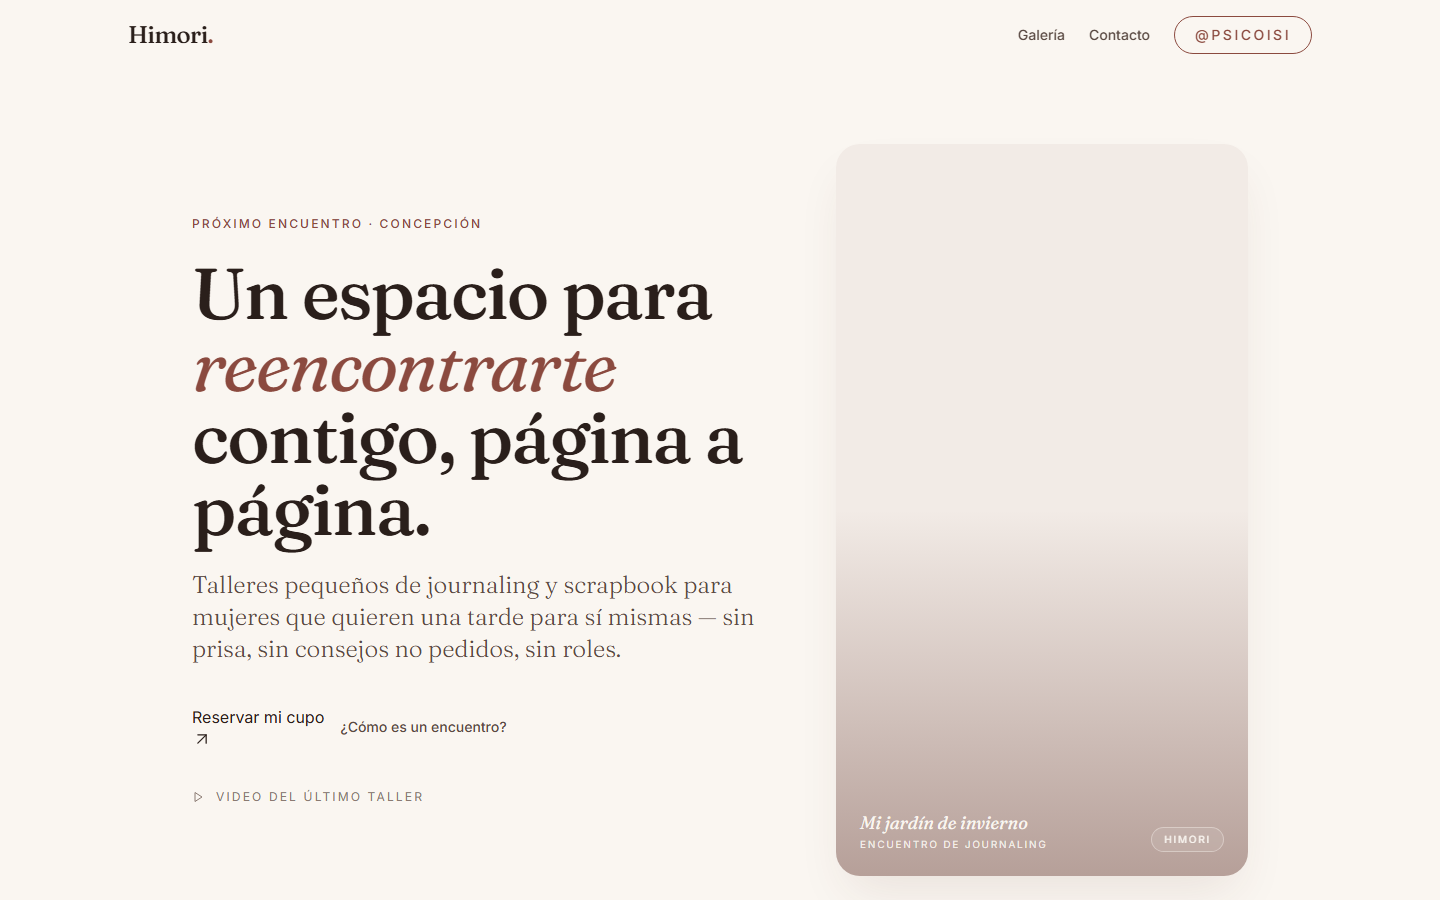
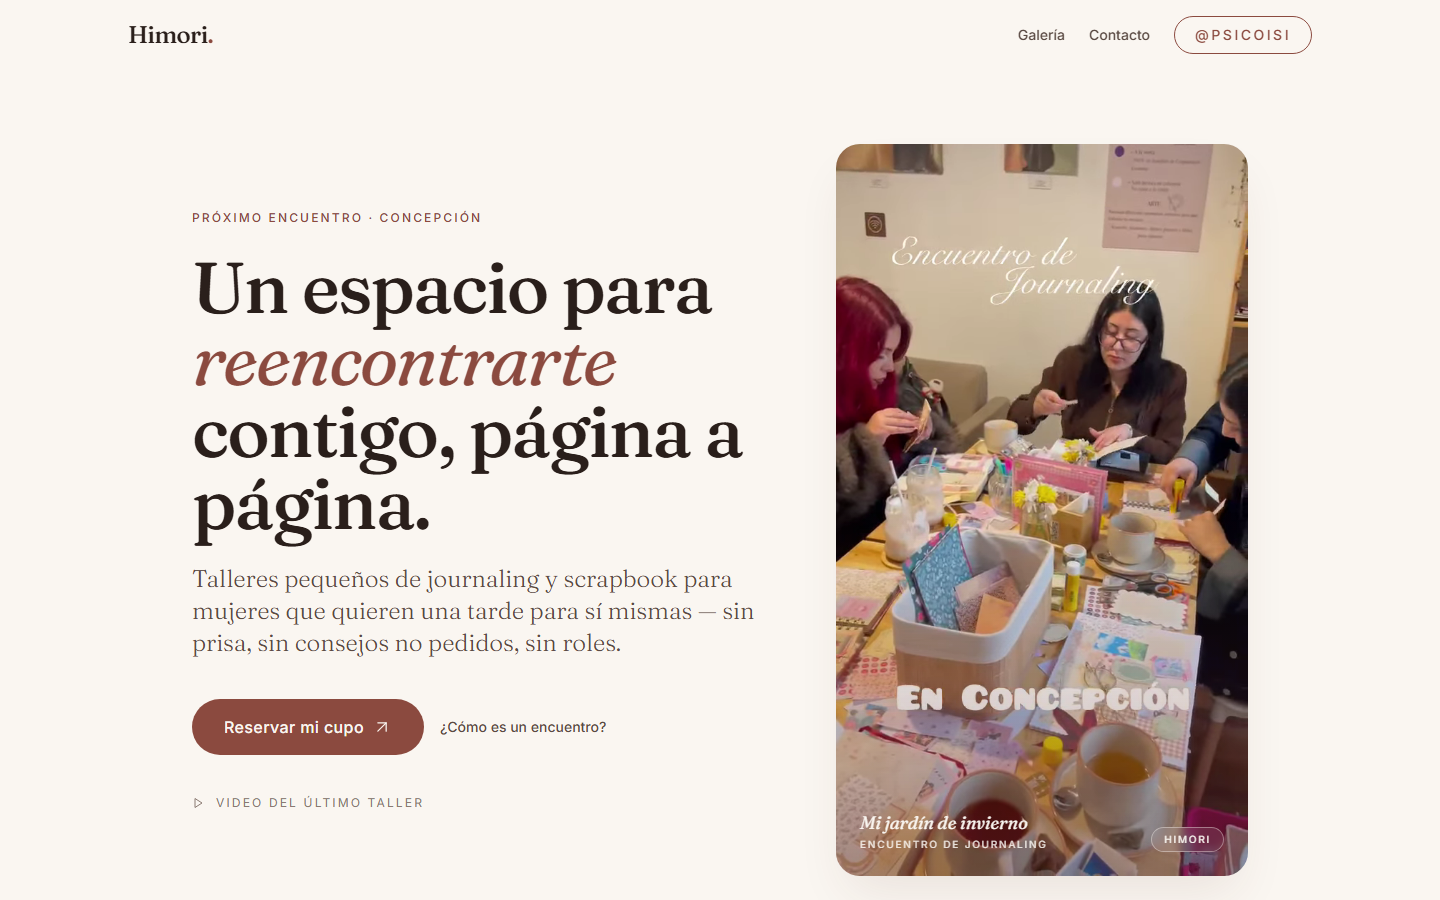
feat: barrita café con info del evento + JSON-LD Event
- Tailwind: nuevo color 'coffee' (tono café semi-transparente)
- Hero: barrita animada con 'Domingo 2 de agosto · 15:00 hrs · Tallercita, Caupolicán 346'
- Hero CTA: 'Reservar mi cupo' → 'Seguir a @psicoisi' (sin ManyChat)
- ProximosEncuentros: datos reales del próximo taller
- Contacto: copy sin HORA, CTA final = seguir a @psicoisi
- Layout: JSON-LD Event (fecha, venue, organizer) para Google
- Layout: JSON-LD Organization con logo
- service contactInstagram: getCallToActionText actualizado

diff --git a/web/src/app/layout.tsx b/web/src/app/layout.tsx
@@ -2,6 +2,7 @@ import type { Metadata, Viewport } from "next";
 import { Fraunces, Inter } from "next/font/google";
 import "./globals.css";
 import { DefaultServicesRegistry } from "@/services/ServicesContext";
+import { SITE } from "@/content/site";
 
 const fraunces = Fraunces({
   variable: "--font-fraunces",
@@ -19,8 +20,13 @@ const inter = Inter({
 });
 
 const SITE_URL =
-  process.env.NEXT_PUBLIC_SITE_URL ?? "https://yessi.github.io/asesoria-himori";
+  process.env.NEXT_PUBLIC_SITE_URL ?? "https://taumbie.github.io/asesoria-himori";
 const INSTAGRAM = "https://www.instagram.com/psicoisi/";
+
+// Construye la URL absoluta de un asset respetando el basePath.
+const basePath = process.env.NEXT_PUBLIC_BASE_PATH ?? "";
+const assetUrl = (p: string) =>
+  p.startsWith("http") ? p : `${SITE_URL}${basePath}${p.startsWith("/") ? p : `/${p}`}`;
 
 export const metadata: Metadata = {
   metadataBase: new URL(SITE_URL),
@@ -51,7 +57,7 @@ export const metadata: Metadata = {
       "Un espacio seguro para reencontrarte a través del journaling y la escritura.",
     images: [
       {
-        url: `${process.env.NEXT_PUBLIC_BASE_PATH ?? ""}/og-image.png`,
+        url: assetUrl("/og-image.png"),
         width: 1200,
         height: 630,
         alt: "Himori — Talleres de journaling",
@@ -62,7 +68,7 @@ export const metadata: Metadata = {
     card: "summary_large_image",
     title: "Himori — Talleres de journaling",
     description: "Encuentros presenciales de journaling y crecimiento personal.",
-    images: [`${process.env.NEXT_PUBLIC_BASE_PATH ?? ""}/og-image.png`],
+    images: [assetUrl("/og-image.png")],
   },
   robots: { index: true, follow: true },
   alternates: { canonical: SITE_URL },
@@ -98,11 +104,9 @@ export default function RootLayout({
               "@type": "LocalBusiness",
               name: "Himori",
               description:
-                "Talleres presenciales de journaling y crecimiento personal para mujeres.",
+                "Talleres presenciales de journaling y crecimiento personal para mujeres en Concepción, Chile.",
               url: SITE_URL,
-              image: `${process.env.NEXT_PUBLIC_BASE_PATH ?? ""}/og-image.png`.startsWith("http")
-                ? `${process.env.NEXT_PUBLIC_BASE_PATH ?? ""}/og-image.png`
-                : `${SITE_URL}${process.env.NEXT_PUBLIC_BASE_PATH ?? ""}/og-image.png`,
+              image: assetUrl("/og-image.png"),
               sameAs: [INSTAGRAM],
               address: {
                 "@type": "PostalAddress",
@@ -111,6 +115,66 @@ export default function RootLayout({
                 addressCountry: "CL",
               },
               priceRange: "$$",
+            }),
+          }}
+        />
+
+        {/* JSON-LD: evento del próximo taller (Google muestra fecha/hora) */}
+        <script
+          type="application/ld+json"
+          dangerouslySetInnerHTML={{
+            __html: JSON.stringify({
+              "@context": "https://schema.org",
+              "@type": "Event",
+              name: `${SITE.upcoming[0].title} — ${SITE.upcoming[0].subtitle}`,
+              startDate: SITE.upcoming[0].isoDate,
+              endDate: SITE.upcoming[0].isoDate.replace("15:00", "18:00"),
+              eventAttendanceMode:
+                "https://schema.org/OfflineEventAttendanceMode",
+              eventStatus: "https://schema.org/EventScheduled",
+              location: {
+                "@type": "Place",
+                name: "Tallercita",
+                address: {
+                  "@type": "PostalAddress",
+                  streetAddress: "Caupolicán 346",
+                  addressLocality: "Concepción",
+                  addressRegion: "Biobío",
+                  addressCountry: "CL",
+                },
+              },
+              image: assetUrl("/og-image.png"),
+              organizer: {
+                "@type": "Organization",
+                name: "Himori",
+                url: SITE_URL,
+                sameAs: [INSTAGRAM],
+              },
+              offers: {
+                "@type": "Offer",
+                availability: "https://schema.org/LimitedAvailability",
+                url: INSTAGRAM,
+                validFrom: new Date().toISOString().split("T")[0],
+              },
+              description:
+                "Encuentro presencial de journaling y scrapbook en Concepción. Grupo pequeño (6-8 mujeres), materiales incluidos, café de bienvenida.",
+            }),
+          }}
+        />
+
+        {/* JSON-LD: organización Himori */}
+        <script
+          type="application/ld+json"
+          dangerouslySetInnerHTML={{
+            __html: JSON.stringify({
+              "@context": "https://schema.org",
+              "@type": "Organization",
+              name: "Himori",
+              url: SITE_URL,
+              logo: assetUrl("/icon.svg"),
+              sameAs: [INSTAGRAM],
+              description:
+                "Talleres de journaling y crecimiento personal en Concepción, Chile.",
             }),
           }}
         />

diff --git a/web/src/components/sections/Contacto.tsx b/web/src/components/sections/Contacto.tsx
@@ -1,20 +1,19 @@
 // src/components/sections/Contacto.tsx
-// Sección final: cierre editorial + CTA explícito al DM.
-// El "form" no envía datos — en su lugar guía al usuario a ManyChat.
-// Esto se ve más honesto que un form que recibe un POST sin respuesta.
+// Sección final: cierre editorial + CTA explícito al Instagram de @psicoisi.
+// Sin ManyChat ni palabras clave. La conversión es: landing → seguir en IG → DM.
 
 "use client";
 
 import { Container } from "@/components/ui/Container";
 import { Reveal } from "@/components/ui/Reveal";
 import { Button } from "@/components/ui/Button";
-import { ArrowUpRight, Mail, MessageCircle } from "lucide-react";
+import { ArrowUpRight, Instagram } from "lucide-react";
 import { SITE } from "@/content/site";
 import { useContactService } from "@/services/ServicesContext";
 
 export function Contacto() {
   const contact = useContactService();
-  const url = contact.buildInstagramDmUrl(SITE.primaryCTA.keyword);
+  const url = contact.buildInstagramDmUrl("");
 
   return (
     <section
@@ -28,29 +27,24 @@ export function Contacto() {
 
         <Reveal delay={100}>
           <h2 className="mt-6 font-serif text-5xl font-medium leading-[1.05] tracking-tight text-ink sm:text-6xl lg:text-7xl">
-            Escribime.{" "}
-            <em className="font-normal italic text-terracotta">
-              Con esa palabra basta.
-            </em>
+            Encuéntranos en{" "}
+            <em className="font-normal italic text-terracotta">@psicoisi</em>.
           </h2>
         </Reveal>
 
         <Reveal delay={200}>
           <p className="mt-8 font-serif text-xl font-light leading-relaxed text-ink-soft sm:text-2xl">
-            Mándame un DM a{" "}
-            <span className="text-ink">@psicoisi</span> con la palabra{" "}
-            <span className="rounded-md bg-terracotta/10 px-2 py-1 font-mono text-base text-terracotta sm:text-lg">
-              {SITE.primaryCTA.keyword}
-            </span>
-            . Te contesto al toque con los detalles del próximo encuentro y
-            cómo reservar tu cupo.
+            Toda la info del próximo encuentro, fotos de los talleres, fechas
+            y cómo sumarte — la subimos a Instagram.{" "}
+            <span className="text-ink">Síguenos</span> y escríbenos por DM
+            cuando quieras.
           </p>
         </Reveal>
 
         <Reveal delay={300}>
           <div className="mt-12 flex flex-col gap-4 sm:flex-row">
             <Button href={url} size="lg" target="_blank" rel="noopener noreferrer">
-              <MessageCircle className="h-5 w-5" strokeWidth={1.5} />
+              <Instagram className="h-5 w-5" strokeWidth={1.5} />
               {contact.getCallToActionText()}
               <ArrowUpRight
                 className="h-5 w-5 transition-transform group-hover:-translate-y-0.5 group-hover:translate-x-0.5"
@@ -62,10 +56,10 @@ export function Contacto() {
 
         <Reveal delay={400}>
           <p className="mt-12 max-w-prose text-sm leading-relaxed text-ink-mute">
-            La palabra <span className="font-medium text-ink-soft">HORA</span>{" "}
-            activa una respuesta automática con toda la info. Si tenés
-            preguntas más personales, podés escribirme directo en el DM —
-            {SITE.owner.name.toLowerCase()} te lee personalmente.
+            {SITE.owner.name} lee los mensajes personalmente. Si tenés
+            preguntas sobre el próximo taller, ubicación, o quieres proponer
+            un encuentro, escríbele directo al DM de{" "}
+            <span className="text-ink-soft">@psicoisi</span>.
           </p>
         </Reveal>
       </Container>

diff --git a/web/src/components/sections/Hero.tsx b/web/src/components/sections/Hero.tsx
@@ -54,9 +54,16 @@ export function Hero() {
         <div className="grid grid-cols-1 gap-10 lg:grid-cols-12 lg:gap-12">
           {/* ── Columna texto ─────────────────────────────── */}
           <div className="flex flex-col justify-center lg:col-span-7 lg:pr-8">
-            <span className="eyebrow mb-6 inline-block">
-              Próximo encuentro · Concepción
-            </span>
+            <div className="mb-6 inline-flex max-w-full items-center gap-3 self-start rounded-2xl border border-coffee/30 bg-coffee/10 px-4 py-2.5 backdrop-blur-sm sm:px-5">
+              <span className="relative flex h-2 w-2 flex-shrink-0">
+                <span className="absolute inset-0 animate-ping rounded-full bg-coffee/60" />
+                <span className="relative inline-flex h-2 w-2 rounded-full bg-coffee" />
+              </span>
+              <span className="text-[10px] font-medium uppercase tracking-[0.14em] text-coffee-dark sm:text-[11px] sm:tracking-eyebrow">
+                {SITE.upcoming[0].date} · {SITE.upcoming[0].time} ·
+                Tallercita, Caupolicán 346
+              </span>
+            </div>
 
             <h1 className="font-serif text-5xl font-medium leading-[1.05] tracking-tight text-ink sm:text-6xl lg:text-7xl">
               Un espacio para{" "}
@@ -67,9 +74,9 @@ export function Hero() {
             </h1>
 
             <p className="mt-6 max-w-xl font-serif text-xl font-light leading-relaxed text-ink-soft sm:text-2xl">
-              Talleres pequeños de journaling y scrapbook para mujeres que
-              quieren una tarde para sí mismas — sin prisa, sin consejos no
-              pedidos, sin roles.
+              Talleres pequeños de journaling y scrapbook en Concepción para
+              mujeres que quieren una tarde para sí mismas — sin prisa, sin
+              consejos no pedidos, sin roles.
             </p>
 
             <div className="mt-10 flex flex-col gap-4 sm:flex-row sm:items-center">

diff --git a/web/src/content/site.ts b/web/src/content/site.ts
@@ -8,14 +8,14 @@ export const SITE = {
   description:
     "Un espacio seguro y accesible para reencontrarte contigo a través del journaling y la escritura, en compañía de otras mujeres.",
 
-  // CTA principal — apunta a ManyChat / Instagram DM
-  // ManyChat se activa cuando alguien envía la palabra "HORA" al @psicoisi
-  // y devuelve automáticamente la info del próximo encuentro.
+  // CTA principal — la conversión vive en Instagram. La landing
+  // NO abre WhatsApp ni pide una keyword (sin ManyChat por ahora).
+  // El usuario va al perfil de @psicoisi, sigue, y desde ahí ve los
+  // próximos talleres y le escribe por DM.
   primaryCTA: {
-    label: "Reservar mi cupo",
-    keyword: "HORA",
+    label: "Seguir a @psicoisi",
     instruction:
-      "Mándame un DM a @psicoisi con la palabra HORA y te cuento cómo sumarte al próximo encuentro.",
+      "Síguenos en @psicoisi para ver los próximos encuentros y escribirle directo a Isi.",
     instagramUrl: "https://www.instagram.com/psicoisi/",
   },
 
@@ -26,14 +26,18 @@ export const SITE = {
     role: "Psicóloga",
   },
 
-  // Próximos encuentros (placeholder — Isidora actualiza este array)
+  // Próximos encuentros. Isidora edita este array.
+  // isoDate se usa para el JSON-LD Event (Google muestra fecha/hora reales).
   upcoming: [
     {
       title: "Mi jardín de invierno",
       subtitle: "Encuentro de journaling",
-      date: "Sábado por confirmar",
-      location: "Tempora Café, Concepción",
-      spots: "Cupos limitados",
+      date: "Domingo 2 de agosto",
+      time: "15:00 hrs",
+      fullDate: "Domingo 2 de agosto, 15:00 hrs",
+      isoDate: "2026-08-02T15:00:00-04:00",
+      location: "Tallercita, Caupolicán 346, Concepción",
+      spots: "Cupos limitados (6-8 mujeres)",
     },
   ],
 

diff --git a/web/src/components/sections/ProximosEncuentros.tsx b/web/src/components/sections/ProximosEncuentros.tsx
@@ -43,7 +43,7 @@ export function ProximosEncuentros() {
                     <p className="text-xs uppercase tracking-eyebrow text-cream/70">
                       Cuándo
                     </p>
-                    <p className="mt-1 font-serif text-xl">{next.date}</p>
+                    <p className="mt-1 font-serif text-xl">{next.fullDate}</p>
                   </div>
                 </div>
 
@@ -87,7 +87,7 @@ export function ProximosEncuentros() {
                     variant="ghost"
                     className="border-cream text-cream hover:bg-cream hover:text-terracotta-dark"
                   >
-                    Escribir a @psicoisi
+                    Seguir a @psicoisi
                     <ArrowUpRight
                       className="h-5 w-5"
                       strokeWidth={1.5}

diff --git a/web/tailwind.config.ts b/web/tailwind.config.ts
@@ -29,6 +29,14 @@ const config: Config = {
           soft: "#5A4A43",
           mute: "#8A7A72",
         },
+        // Café — tono cálido marrón, para barritas de info / eventos
+        coffee: {
+          DEFAULT: "#6B4423",
+          dark: "#3E2818",
+          light: "#8B5A2B",
+          soft: "#A87C5F",
+        },
+
         // Reglas / bordes sutiles
         rule: "#D9C9BE",
       },

diff --git a/web/src/services/impl/contactInstagram.service.ts b/web/src/services/impl/contactInstagram.service.ts
@@ -26,6 +26,6 @@ export const contactInstagramService: ContactService = {
   },
 
   getCallToActionText() {
-    return "Enviar DM con la palabra HORA";
+    return "Seguir a @psicoisi";
   },
 };
